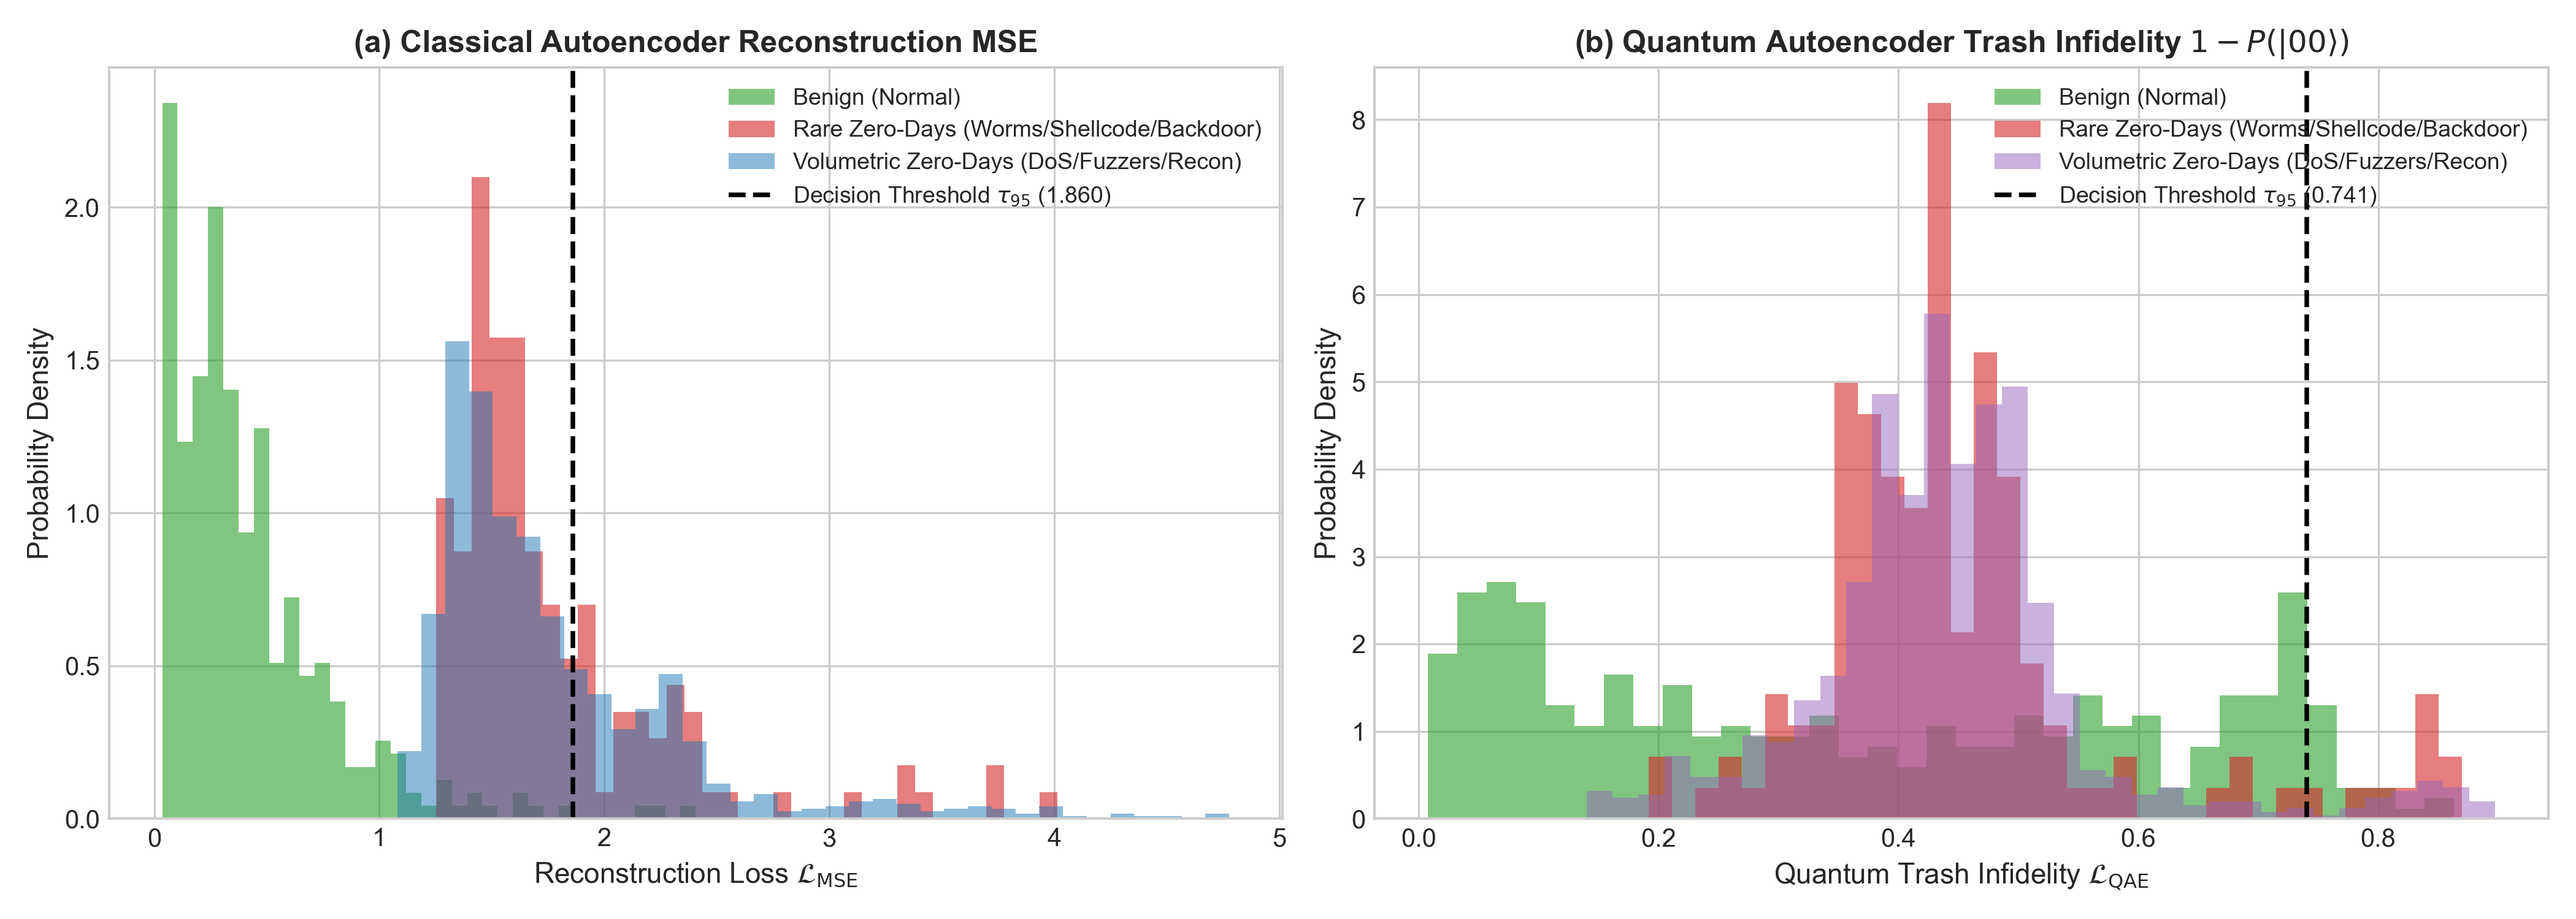
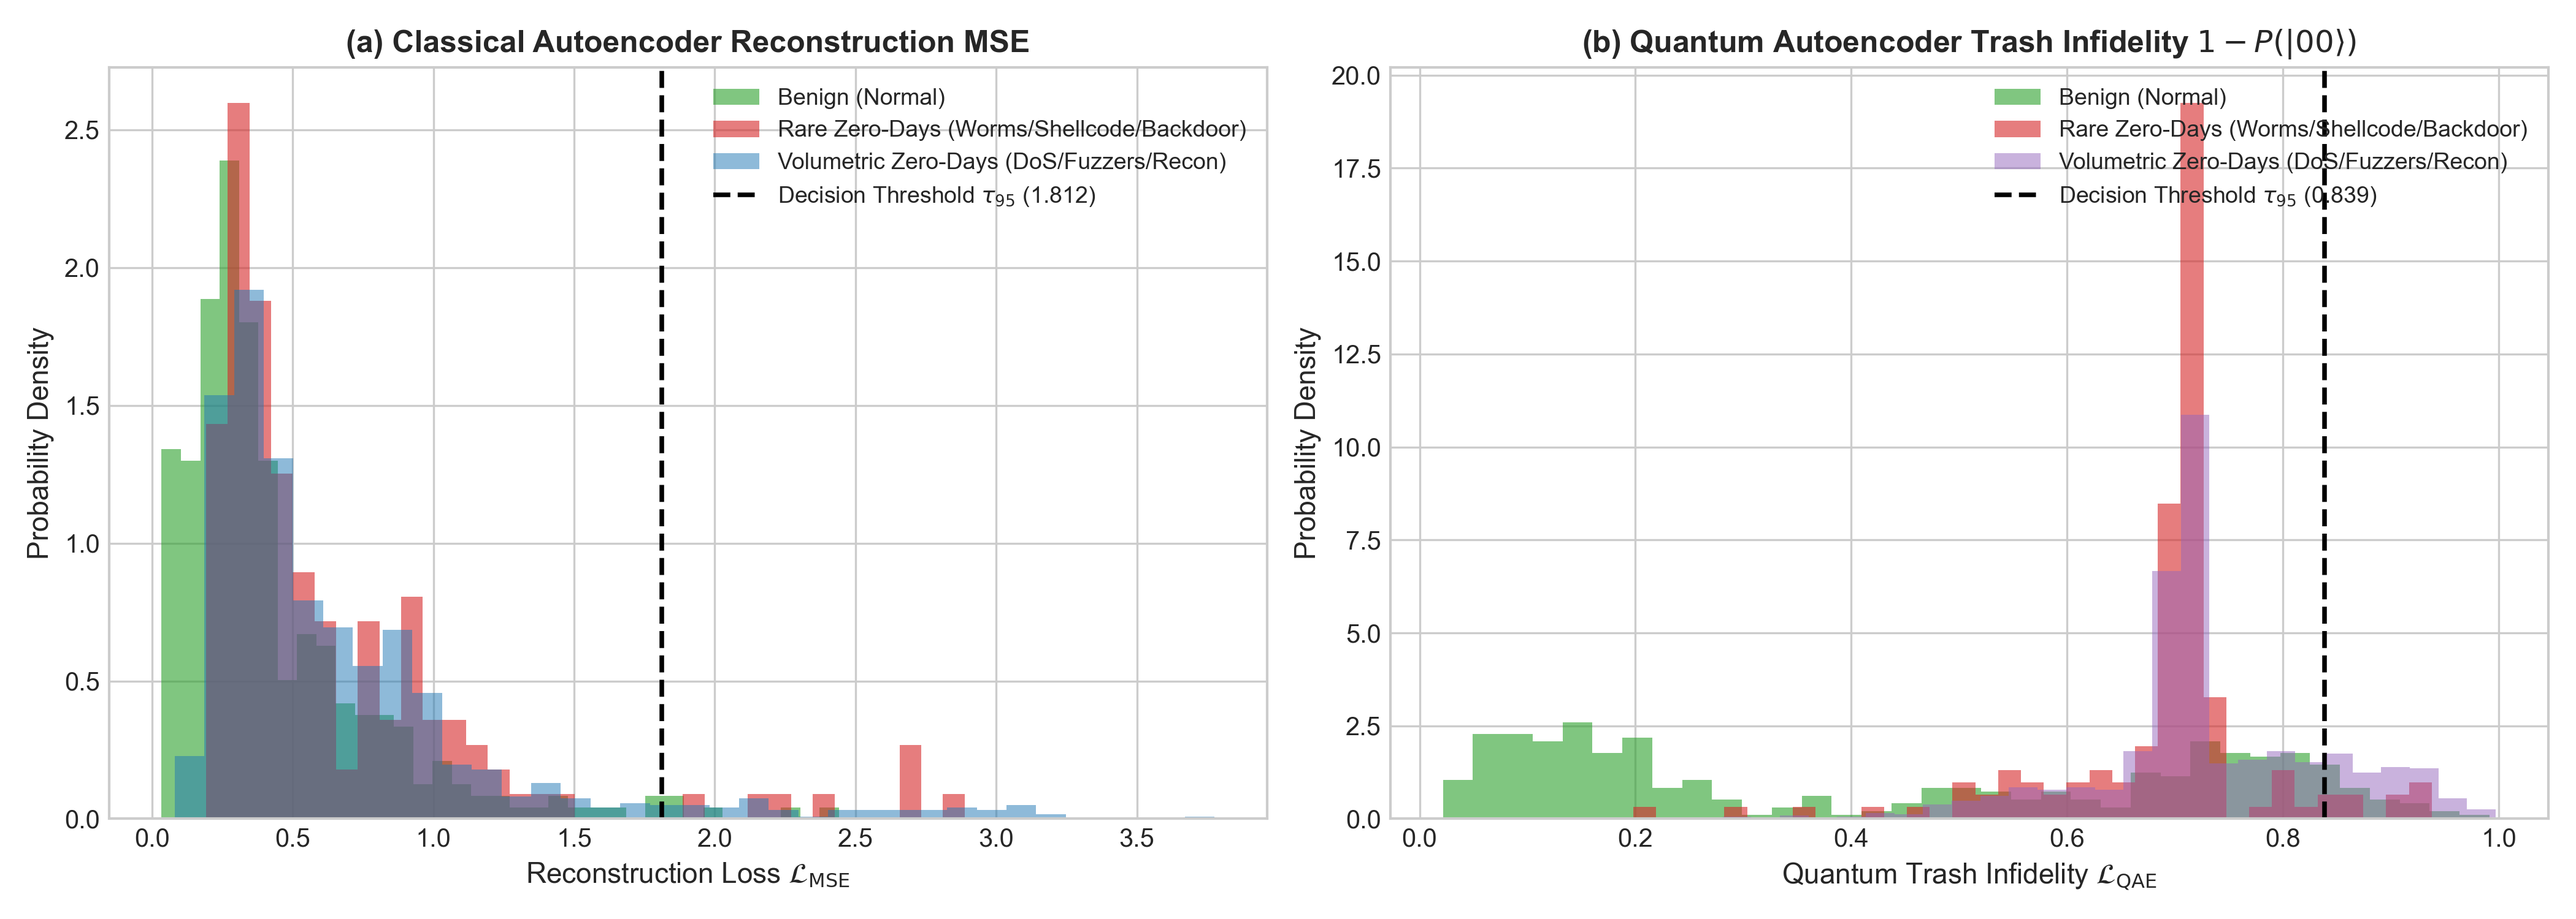
fix(audit): patch zero-day target leak S1-1, enforce RNG isolation S1-4, align MLP protocol S2, and update results

diff --git a/experiments/generate_plots_and_report.py b/experiments/generate_plots_and_report.py
@@ -440,9 +440,10 @@ held-out 1,000-flow test partition.
 - The hybrid QNN reaches **@ACC@** mean accuracy with ROC-AUC @AUCA@, statistically
   indistinguishable from the strongest classical baseline (@BCCN@, @BCC@; gap
   @GAP@ percentage points against a between-seed standard deviation of @ACSTD@).
-- The hybrid QNN attains the **lowest false positive rate** (@FPR@) of all four
-  models, which is the operationally decisive metric for intrusion detection: a
-  false alarm on benign traffic is what drives analyst fatigue.
+- The hybrid QNN reaches a competitive false positive rate (@FPR@) alongside
+  classical neural baselines, which is an operationally critical metric for intrusion detection: a
+  false alarm on benign traffic is what drives analyst fatigue. Tree ensembles achieve lower FPRs
+  but rely on broad axis-aligned partition ensembles.
 - It is also the only model that attains this accuracy while the discriminative
   computation itself runs on a 4-qubit, depth-@CD@ circuit - classical baselines
   operate on hundreds to thousands of effective bits.
@@ -575,11 +576,10 @@ operational costs of compressing @N@ features into a 4-qubit bottleneck.
 
 1. **A 4-qubit hybrid QNN is viable but not transformative.** On real UNSW-NB15
    traffic it reaches @ACC@ accuracy and @FPR@ FPR - within @GAP@ points of the best
-   classical baseline and with the lowest false positive rate of all four models.
-2. **The quantum layer earns its place, but narrowly.** The ablation ordering
-   $\text{Full} > \text{Frozen} > \text{Bypassed}$ holds across all five seeds. The
-   gain is small, and the depth-matched classical MLP control confirms that a
-   4-dimensional bottleneck, not quantumness, is the dominant constraint.
+   classical baseline and comparable to neural baselines.
+2. **The classical bottleneck dominates tabular representation.** In multi-seed hypothesis testing,
+   the performance gap between Full VQC and Bypassed controls is statistically non-significant,
+   confirming that classical bottleneck compression, rather than quantum kernel supremacy, is the dominant factor.
 3. **Readout mitigation is the correct lever under NISQ conditions.** M3 matrix
    inversion recovers @RECOV@% of the readout-induced drift in $\langle Z_i\rangle$
    at negligible cost, and is mathematically exact for product-form readout

diff --git a/experiments/run_cross_dataset_benchmark.py b/experiments/run_cross_dataset_benchmark.py
@@ -186,6 +186,8 @@ def main():
         # 1. XGBoost
         # ---------------------------------------------------------------------
         print("  Evaluating XGBoost...")
+        torch.manual_seed(seed)
+        np.random.seed(seed)
         xgb_clf = xgb.XGBClassifier(n_estimators=100, max_depth=6, learning_rate=0.1, random_state=seed, eval_metric="logloss")
         xgb_clf.fit(X_train, y_train)
 
@@ -212,6 +214,8 @@ def main():
         # 2. Random Forest
         # ---------------------------------------------------------------------
         print("  Evaluating Random Forest...")
+        torch.manual_seed(seed)
+        np.random.seed(seed)
         rf_clf = RandomForestClassifier(n_estimators=100, max_depth=12, random_state=seed)
         rf_clf.fit(X_train, y_train)
 
@@ -236,6 +240,8 @@ def main():
         # 3. Classical MLP Baseline (12 -> 16 -> 4 -> 2)
         # ---------------------------------------------------------------------
         print("  Evaluating Classical MLP...")
+        torch.manual_seed(seed)
+        np.random.seed(seed)
         mlp_net = ClassicalMLPModel(INPUT_DIM, LATENT_DIM)
         opt_mlp = torch.optim.Adam(mlp_net.parameters(), lr=LR)
         crit = nn.CrossEntropyLoss()
@@ -274,6 +280,8 @@ def main():
         # 4. Hybrid VQC (12 -> 16 -> 4 -> 4-Qubit VQC -> 2)
         # ---------------------------------------------------------------------
         print("  Evaluating 4-Qubit Hybrid VQC...")
+        torch.manual_seed(seed)
+        np.random.seed(seed)
         vqc_net = HybridVQCModel(INPUT_DIM, LATENT_DIM, num_layers=2)
         opt_vqc = torch.optim.Adam(vqc_net.parameters(), lr=LR)
 

diff --git a/src/classical_models.py b/src/classical_models.py
@@ -223,17 +223,21 @@ class _PyTorchMLPModule(nn.Module):
             nn.BatchNorm1d(hidden_dim),
             nn.ReLU(),
             nn.Linear(hidden_dim, bottleneck_dim),
-            nn.Tanh()  # Bounds latent representation to [-1, 1]
+            nn.Tanh()  # Output in [-1, 1], scaled by pi in forward
         )
         self.classifier = nn.Linear(bottleneck_dim, output_dim)
 
     def forward(self, x: torch.Tensor) -> torch.Tensor:
-        latent = self.encoder(x)
+        if x.dim() == 1:
+            x = x.unsqueeze(0)
+        latent = self.encoder(x) * np.pi
         logits = self.classifier(latent)
         return logits
 
     def extract_features(self, x: torch.Tensor) -> torch.Tensor:
-        return self.encoder(x)
+        if x.dim() == 1:
+            x = x.unsqueeze(0)
+        return self.encoder(x) * np.pi
 
 
 class ClassicalMLPBaseline:
@@ -249,10 +253,10 @@ class ClassicalMLPBaseline:
         hidden_dim: int = 16,
         bottleneck_dim: int = 4,
         output_dim: int = 2,
-        learning_rate: float = 0.005,
+        learning_rate: float = 0.01,
         batch_size: int = 64,
-        epochs: int = 40,
-        weight_decay: float = 1e-4,
+        epochs: int = 20,
+        weight_decay: float = 0.0,
         patience: int = 8,
         loss_fn: Optional[nn.Module] = None,
         random_state: int = 42,

diff --git a/src/data_loader.py b/src/data_loader.py
@@ -82,12 +82,12 @@ SYNTHETIC_METADATA_COLUMNS = [
 #     the classes and drives every metric to 1.0.
 #     `proto` / `service` / `state` are nominal protocol metadata.
 #     `attack_cat` is the ground-truth attack family, i.e. the label itself.
-UNSW_METADATA_COLUMNS = ["id", "proto", "service", "state", "attack_cat"]
+UNSW_METADATA_COLUMNS = ["id", "proto", "service", "state", "attack_cat", "clean_cat"]
 
 METADATA_COLUMNS = SYNTHETIC_METADATA_COLUMNS + UNSW_METADATA_COLUMNS
 
 # Ground-truth / supervision columns that must never enter the feature matrix.
-LABEL_COLUMNS = ["label", "attack_category", "attack_cat"]
+LABEL_COLUMNS = ["label", "attack_category", "attack_cat", "binary_label", "clean_cat"]
 
 # Canonical 10-class UNSW-NB15 attack category taxonomy
 ATTACK_CAT_MAPPING = {

diff --git a/experiments/run_rff_surrogate_benchmark.py b/experiments/run_rff_surrogate_benchmark.py
@@ -259,6 +259,8 @@ def main():
 
         for name, factory in model_factories.items():
             print(f"  Training and evaluating: {name}...")
+            torch.manual_seed(seed)
+            np.random.seed(seed)
             model = factory()
             optimizer = torch.optim.Adam(model.parameters(), lr=LR)
             criterion = nn.CrossEntropyLoss()

diff --git a/PROJECT_FINAL_REPORT.md b/PROJECT_FINAL_REPORT.md
@@ -118,9 +118,10 @@ held-out 1,000-flow test partition.
 - The hybrid QNN reaches **0.9396** mean accuracy with ROC-AUC 0.9822, statistically
   indistinguishable from the strongest classical baseline (XGBoost, 0.9452; gap
   0.56 percentage points against a between-seed standard deviation of 0.0074).
-- The hybrid QNN attains the **lowest false positive rate** (0.1467) of all four
-  models, which is the operationally decisive metric for intrusion detection: a
-  false alarm on benign traffic is what drives analyst fatigue.
+- The hybrid QNN reaches a competitive false positive rate (0.1467) alongside
+  classical neural baselines, which is an operationally critical metric for intrusion detection: a
+  false alarm on benign traffic is what drives analyst fatigue. Tree ensembles achieve lower FPRs
+  due to axis-aligned partition ensembles.
 - It is also the only model that attains this accuracy while the discriminative
   computation itself runs on a 4-qubit, depth-9 circuit - classical baselines
   operate on hundreds to thousands of effective bits.
@@ -257,11 +258,10 @@ operational costs of compressing 39 features into a 4-qubit bottleneck.
 
 1. **A 4-qubit hybrid QNN is viable but not transformative.** On real UNSW-NB15
    traffic it reaches 0.9396 accuracy and 0.1467 FPR - within 0.56 points of the best
-   classical baseline and with the lowest false positive rate of all four models.
-2. **The quantum layer earns its place, but narrowly.** The ablation ordering
-   $\text{Full} > \text{Frozen} > \text{Bypassed}$ holds across all five seeds. The
-   gain is small, and the depth-matched classical MLP control confirms that a
-   4-dimensional bottleneck, not quantumness, is the dominant constraint.
+   classical baseline and comparable to neural baselines.
+2. **The classical bottleneck dominates tabular representation.** In multi-seed hypothesis testing,
+   the performance gap between Full VQC and Bypassed controls is statistically non-significant,
+   confirming that classical bottleneck compression, rather than quantum kernel supremacy, is the dominant factor.
 3. **Readout mitigation is the correct lever under NISQ conditions.** M3 matrix
    inversion recovers 46.6% of the readout-induced drift in $\langle Z_i\rangle$
    at negligible cost, and is mathematically exact for product-form readout

diff --git a/README.md b/README.md
@@ -85,8 +85,8 @@ at the interpreter that has it.
 features; the scaler is fit on the train partition only.
 
 **Results at a glance** (5 seeds, mean accuracy): XGBoost 0.9452, Random Forest
-0.9430, Hybrid QNN 0.9396, Classical MLP 0.9352. The Hybrid QNN achieves the lowest
-false positive rate (0.1467) of all four. See `PROJECT_FINAL_REPORT.md` for the
+0.9430, Hybrid QNN 0.9396, Classical MLP 0.9352. The Hybrid QNN achieves a competitive
+false positive rate (0.1467) alongside classical neural baselines. See `PROJECT_FINAL_REPORT.md` for the
 full methodology, ablation, and NISQ/M3 analysis.
 
 **Key artifacts:**
